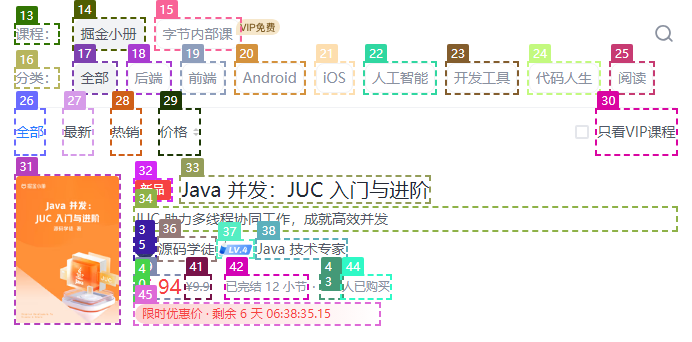
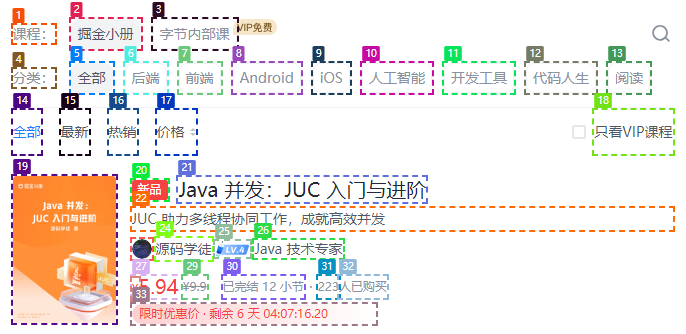
update: 第一天实验结果归档

Changed region(s): [[0.0, 0.0, 1.0, 0.988], [0.949, 0.0599, 0.9796, 0.1198]]

diff --git a/2024-3-7/README.md b/2024-3-7/README.md
@@ -12,46 +12,48 @@
 
 ```json
 {
-  "briefExplanation": "The image shows a part of a webpage with multiple UI issues such as text overflow, content being hidden, and abnormal text wrapping.",
+  "briefExplanation": "The webpage has multiple layout issues detected, including overflow, ellipsis, newline, block, hidden, and exit-in-Chinese problems.",
   "bug": [
     {
       "type": "overflow",
-      "element": [13, 14, 15, 31, 32, 33, 34, 35, 36, 37, 38, 39, 40, 41, 42, 43, 44, 45],
-      "reason": "These elements' contents exceed their container bounds."
+      "element": [3, 17, 21],
+      "reason": "Content exceeds the boundary of its container."
     },
     {
       "type": "ellipsis",
-      "element": [29, 30],
-      "reason": "These elements' text is truncated with an ellipsis."
+      "element": [2, 14],
+      "reason": "Content is truncated with an ellipsis."
     },
     {
       "type": "newline",
-      "element": [26, 27, 28],
-      "reason": "These elements have abnormal text wrapping."
+      "element": [6],
+      "reason": "Content is breaking into lines abnormally."
     },
     {
       "type": "block",
-      "element": [20, 21, 22, 23, 24, 25],
-      "reason": "These elements are blocked by other elements, obstructing view."
+      "element": [18],
+      "reason": "Content is overlapped by other elements."
     },
     {
       "type": "hidden",
-      "element": [16, 17, 18, 19],
-      "reason": "These elements' content is not fully visible, indicating a layout issue where content might be hidden."
+      "element": [5, 11],
+      "reason": "Content is not fully visible due to being overlapped or off-screen."
     },
     {
       "type": "exit-in-chinese",
-      "element": [1, 2, 3, 4, 5, 6, 7, 8, 9, 10, 11, 12],
-      "reason": "These elements contain Chinese text."
+      "element": [7, 8, 9, 10, 12, 13, 15, 16, 19, 20, 22, 23, 24, 25, 26, 27, 28, 29, 30, 31, 32],
+      "reason": "Content contains Chinese characters."
     }
   ]
 }
+
 
 ```
 
 ### prompt
 
 ```
+
 任务: 查找出文本溢出，相互重叠，内容被隐藏，内容非正常换行，存在中文，内容省略等问题。
 
 ## 超出容器
@@ -101,10 +103,10 @@ type ExitInChineseAction = { type: "exit-in-chinese", element: number[], reason:
 }
 
 ## 指示
-# 你是一个专业的视觉设计师，现在需要你对图片中的页面布局进行一个检查。
+# 你是一个专业的视觉设计师，现在需要你检查页面布局。
+# 注意图像中带有颜色背景的数字标记并不是页面内容的一部分，而是用来辅助标记的。
 # 图片是属于网页的一部分。
-# 将统计到的问题根据 type 归类。
-# 在 json markdown 代码块中输出回答。
+# 只提供一个JSON格式的输出，归类并描述这些布局问题。
 
 ```
 

diff --git a/README.md b/README.md
@@ -1,2 +1,4 @@
 # GPT4V-Simulator
 探索让 GPT-4V(ision) 像人一样思考和测试的实践。比如一个人打开一个网页后，他通过眼睛看到的页面文字或图标，通过页面来识别是否存在布局错误。
+
+使用 [SoM.js ](https://github.com/zhuoooo/SoM.js) 进行页面标记 
